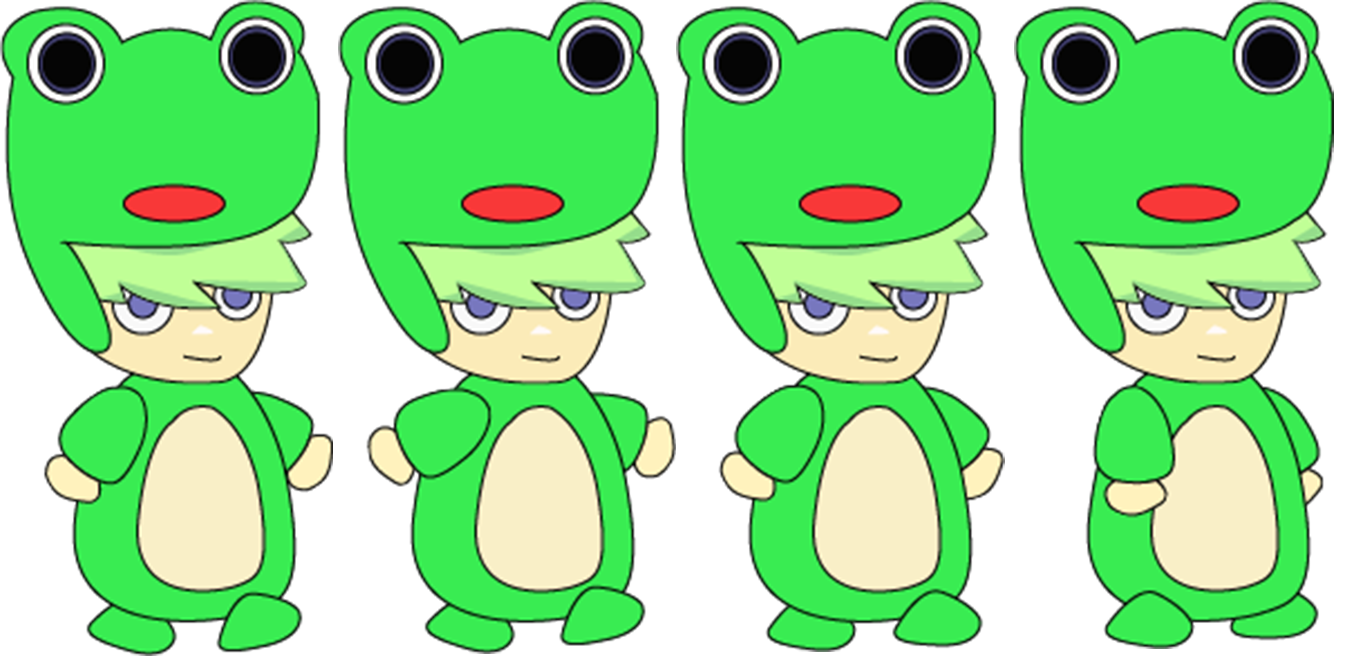
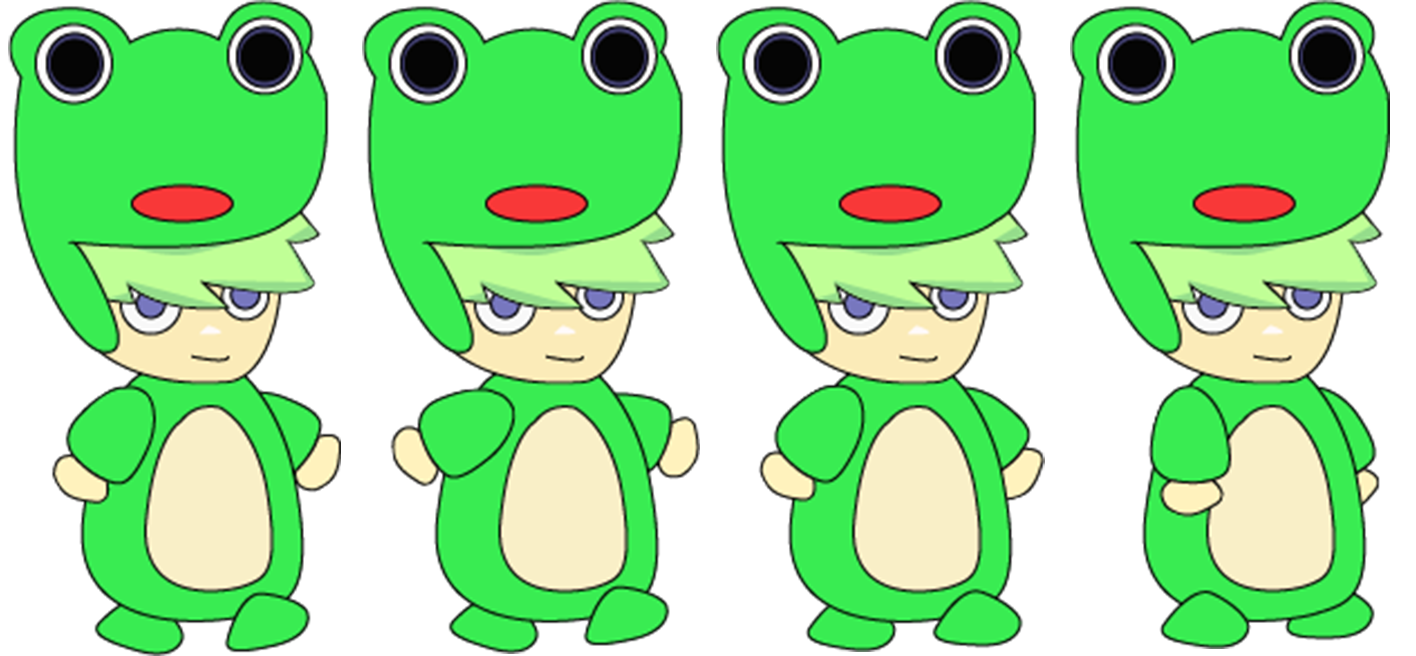
Add Jump and fix fromrun

diff --git a/core/src/com/ar/game/screen/PlayScreen.java b/core/src/com/ar/game/screen/PlayScreen.java
@@ -64,9 +64,9 @@ public class PlayScreen extends ScreenAdapter {
         frames.add(new TextureRegion(atlas.findRegion(name+"run0"), 0, 0, 354, 656));
         Animation player1Normal = new Animation(0.1f, frames);
         frames.clear();
-        atlas = new TextureAtlas(name+"run.txt");
+        atlas = new TextureAtlas(name+"jump.txt");
         for (int i = 0; i < 4; i++) {
-            frames.add(new TextureRegion(atlas.findRegion(name+"run"+i), i, 0, 354, 656));
+            frames.add(new TextureRegion(atlas.findRegion(name+"jump"+i), i, 0, 354, 656));
         }
         Animation player1Jump = new Animation(0.1f, frames);
         frames.clear();
